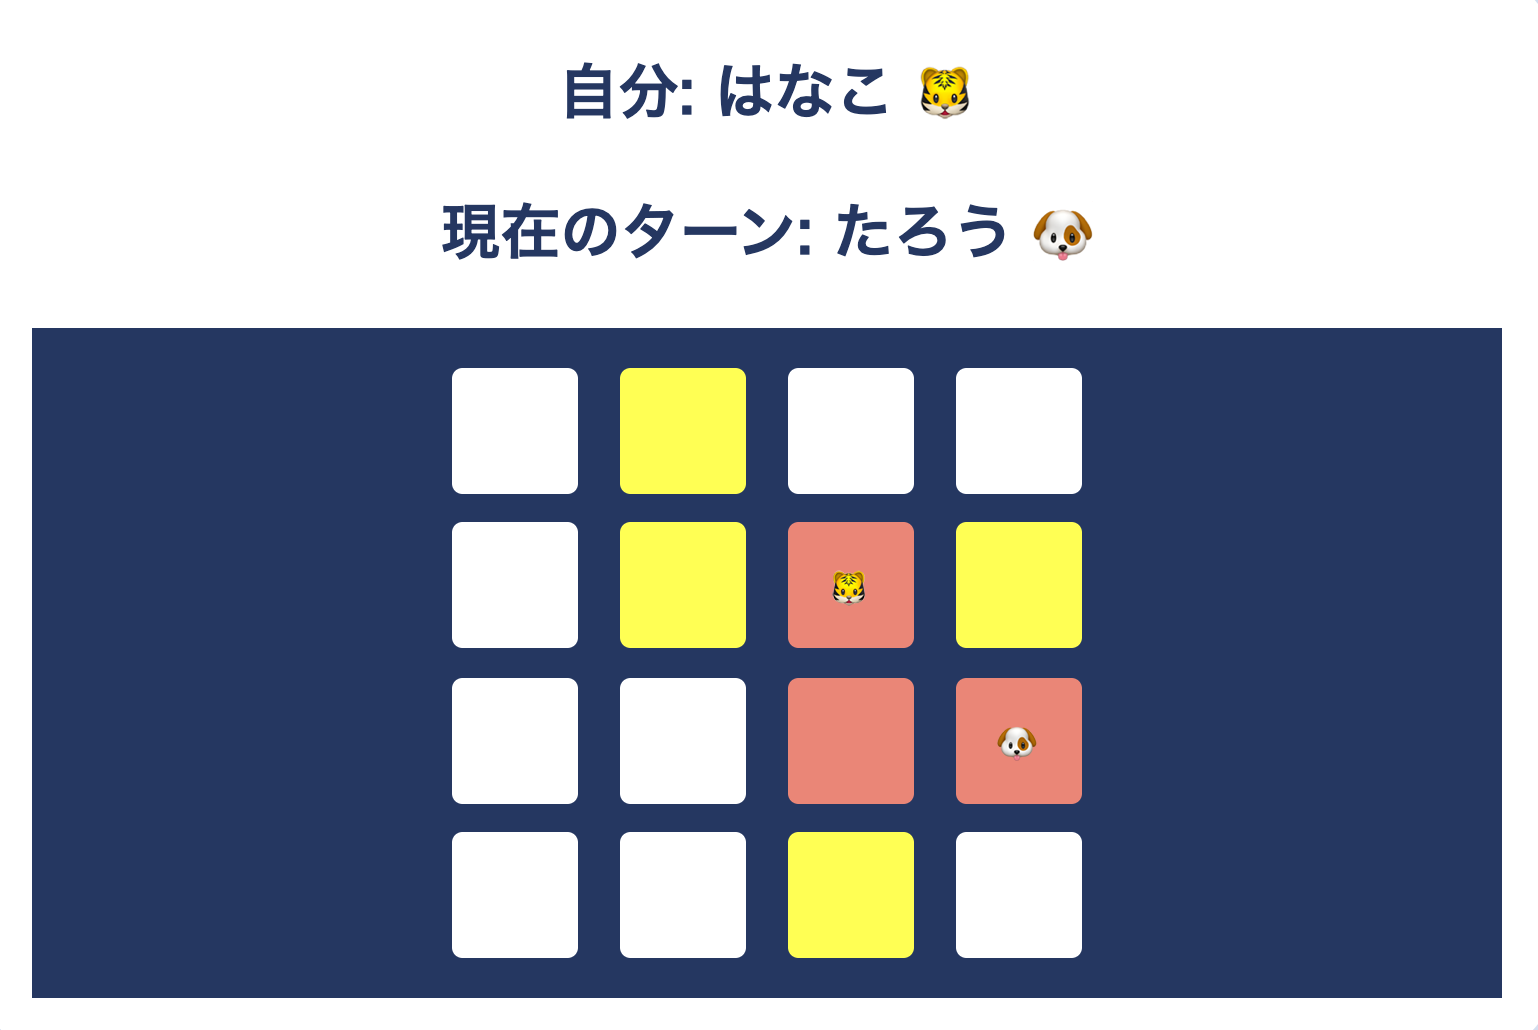
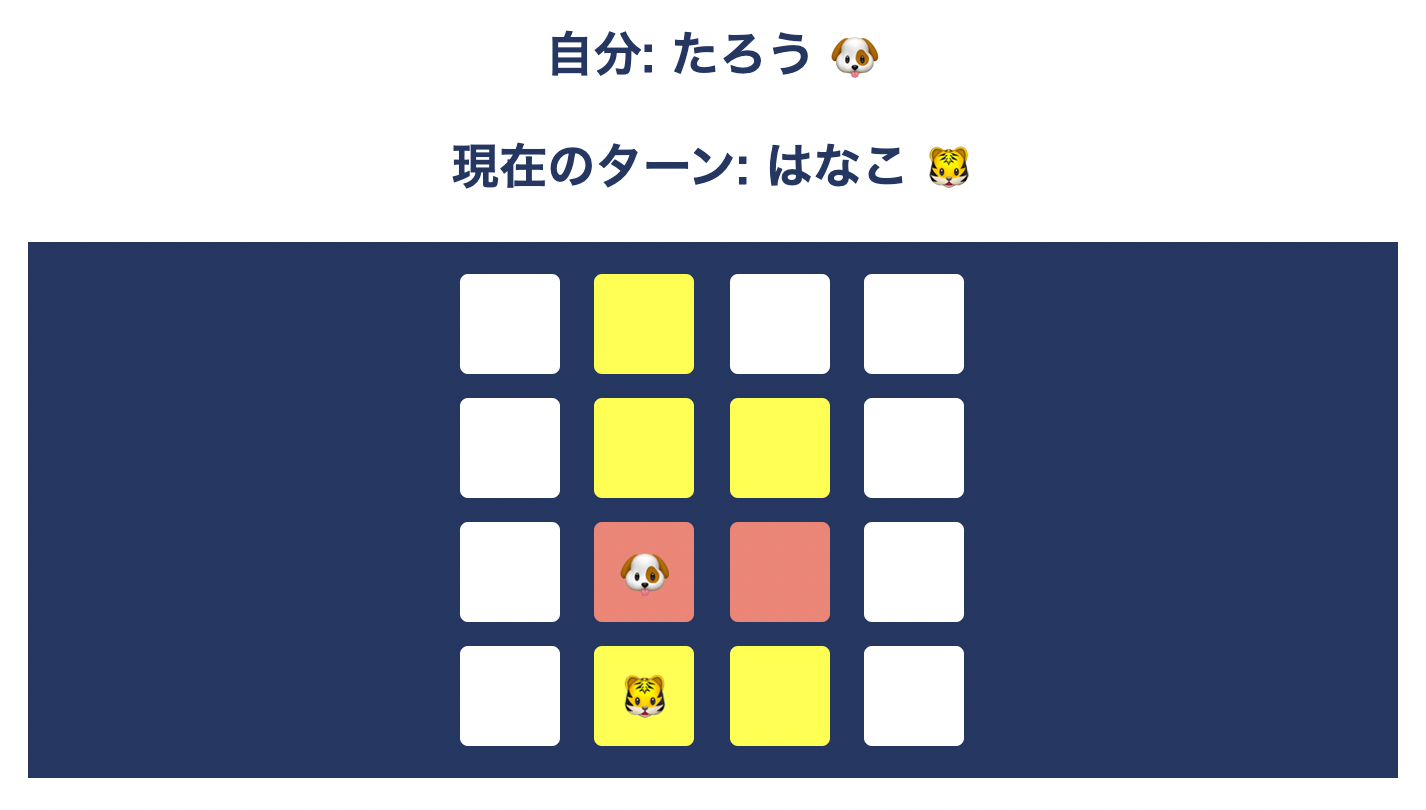
パネルの動物の大きさを変更。それに合わせて画像も変更。

Changed region(s): [[0.0, 0.2778, 0.9874, 0.9877], [0.2777, 0.1543, 0.7097, 0.2469], [0.3703, 0.0309, 0.648, 0.1235]]

diff --git a/public/stylesheet.css b/public/stylesheet.css
@@ -72,6 +72,7 @@ button:hover {
     line-height: 50px;
     border: 1px solid;
     border-radius: 5px;
+    font-size: 25px;
 }
 
 .panel:hover {
@@ -90,4 +91,5 @@ button:hover {
 #gamescene img{
     width: 50%;
     height: 50%;
+    border: solid 1px;
 }
